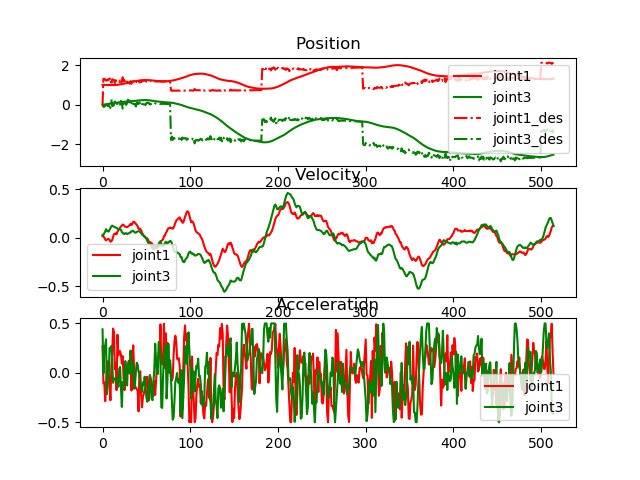
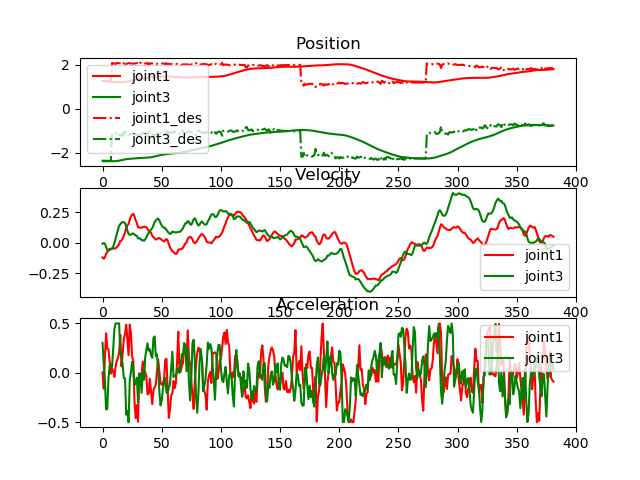
可视化v1.0

diff --git a/examples/multimodal_franka/FrankaMoveSDF_MultiModal.py b/examples/multimodal_franka/FrankaMoveSDF_MultiModal.py
@@ -44,24 +44,25 @@ class MPCRobotController(FrankaEnvBase):
     def __init__(self, gym_instance , ik_mSolve):
         super().__init__(gym_instance = gym_instance)
         self.mpc_config = 'franka_reacher_multimodal.yml' # 权重定制
+        self.world_description = 'collision_primitives.yml'
         self.mpc_control = ReacherTaskMultiModal( self.mpc_config, self.world_description, self.tensor_args ) # 任务定制
         self._environment_init()
         self.envpc_filter = FilterPointCloud(self.robot_sim.camObsHandle.cam_pose) #sceneCollisionNet 句柄 现在只是用来获取点云
-        self.task_leftright = True
+        self.task_leftright = False
         if self.task_leftright:
             self.coll_dt_scale = 0.015 # left and right
-            self.coll_movebound_leftright = [-0.40,0.01] # 左右实验的位置边界
+            self.coll_movebound_leftright = [-0.45,0.01] # 左右实验的位置边界
         else:
-            self.coll_dt_scale = 0.01 # up and down
-            self.coll_movebound_updown = [0.48,0.85] # 上下实验的位置边界
+            self.coll_dt_scale = 0.015 # up and down
+            self.coll_movebound_updown = [0.40,0.80] # 上下实验的位置边界
         self.uporient = -1.0
         self.thresh = 0.05 # goal next thresh in Cart
         self.goal_list = [ # 两个目标点位置
              [0.25,0.35,-0.65],
-             [0.10,0.30,0.65]]
+             [0.20,0.35,0.65]]
         self.goal_state = self.goal_list[0]
         self.update_goal_state()
-        self.update_collision_state([0.42,0.50,-0.01])
+        self.update_collision_state([0.40,0.60,-0.20])
         self.rollout_fn = self.mpc_control.controller.rollout_fn
         self.goal_ee_transform = np.eye(4)
         # 暂行多进程方案是通过传参的方式 引导ik_proc句柄 保证ik_proc在主进程启动 避免无法共享内存的问题

diff --git a/examples/multimodal_franka/FrankaEnvBase.py b/examples/multimodal_franka/FrankaEnvBase.py
@@ -208,9 +208,11 @@ class FrankaEnvBase(RosVisualBase):
             self.goal_state = self.goal_list[(self.goal_flagi+1) % len(self.goal_list)]
             self.update_goal_state()
             log_message = "next goal: {}, lap_count: {}, collision_count: {}".format(self.goal_flagi, self.goal_flagi / len(self.goal_list), self.curr_collision)
-            if self.goal_flagi / len(self.goal_list) == 6 : 
-                self.traj_log = {'position':[], 'velocity':[], 'acc':[] , 'des':[] , 'weights':[]}
             rospy.loginfo(log_message)
+            if self.goal_flagi %  ( 2*len(self.goal_list) )== 1 : 
+                self.traj_log = {'position':[], 'velocity':[], 'acc':[] , 'des':[] , 'weights':[]}
+                print("置零")
+
         
         if end_trajvisual :
             self.visual_top_trajs_ingym_multimodal()
